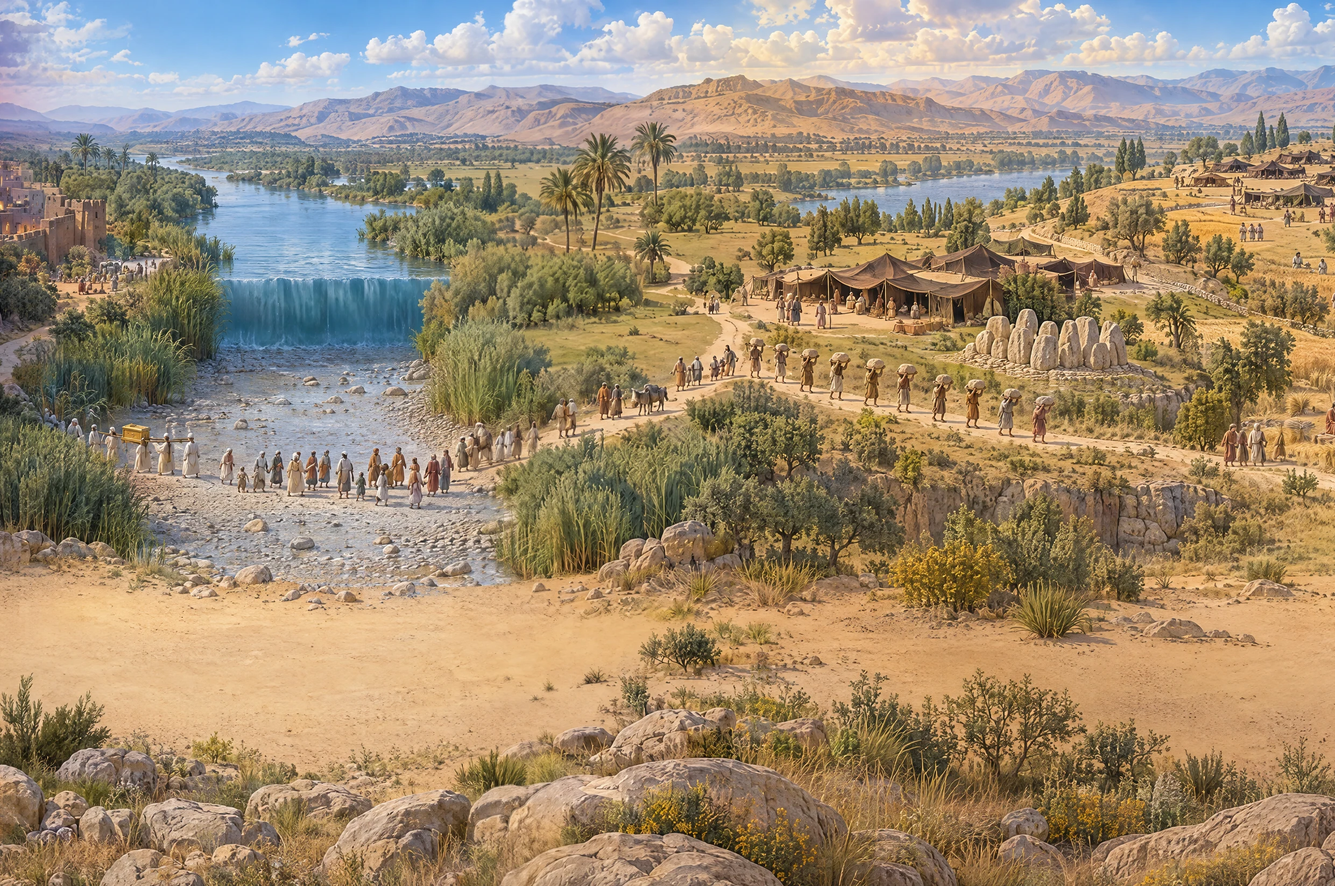
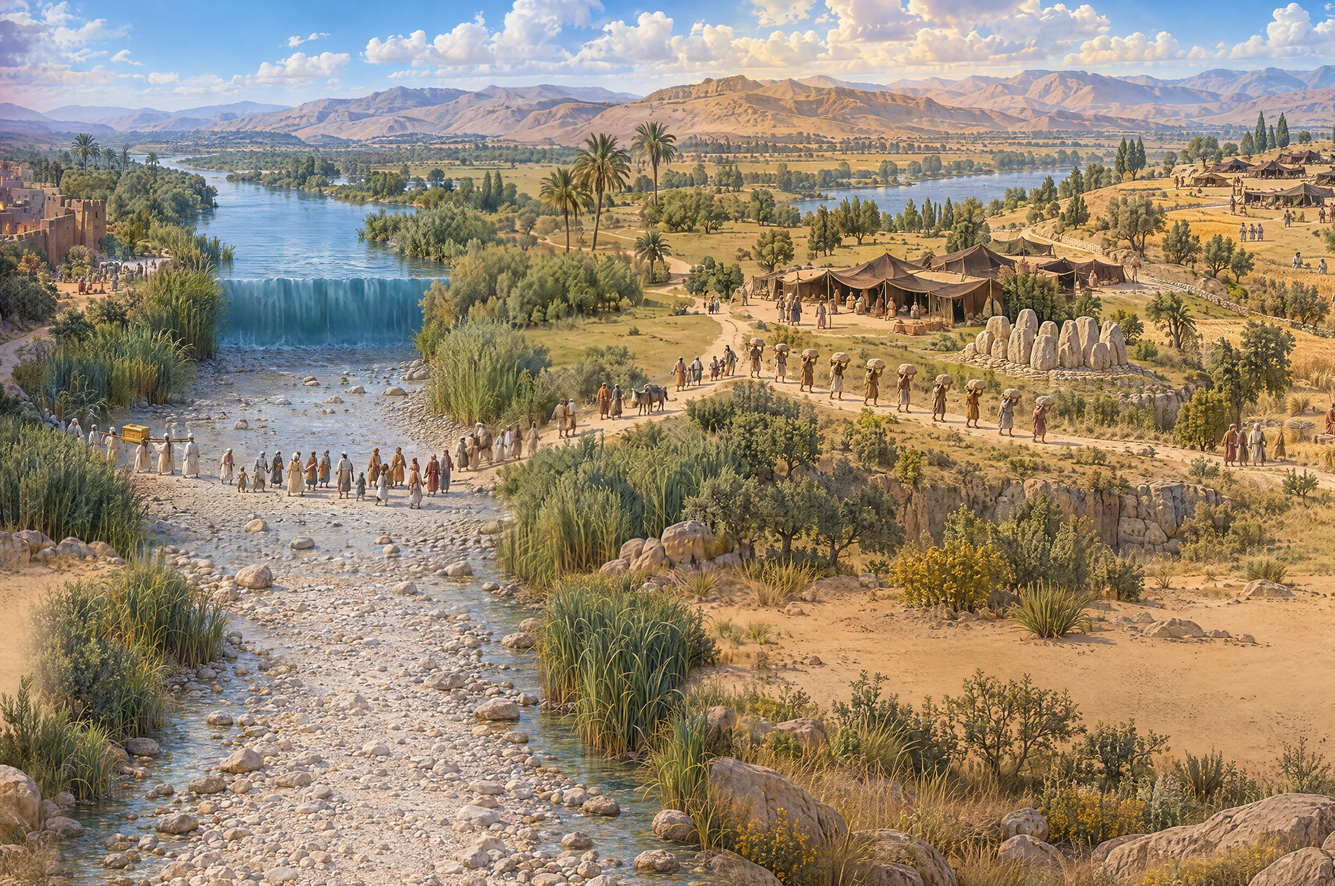
Joshua map: panorama v4 (the Jordan runs down to the lower edge), piece 2 cut anew, stretch 3 of the dotted way leads below the crossing people through the river bed

Changed region(s): [[0.0, 0.6189, 0.5586, 1.0]]

diff --git a/src/data/adventures/josuaPath.ts b/src/data/adventures/josuaPath.ts
@@ -11,7 +11,7 @@ export const JOSUA_PATH: [number, number][][] = [
   // station 2 to 3
   [[0.177, 0.4612], [0.1793, 0.4821], [0.1818, 0.5031], [0.185, 0.5204], [0.189, 0.5314], [0.1933, 0.532], [0.1976, 0.5316], [0.202, 0.5315], [0.2061, 0.5246], [0.2102, 0.5151], [0.2145, 0.5167], [0.2176, 0.534]],
   // station 3 to 4
-  [[0.2568, 0.534], [0.2607, 0.5476], [0.2645, 0.562], [0.2683, 0.5761], [0.2723, 0.5888], [0.2765, 0.5988], [0.2809, 0.6057], [0.2853, 0.6104], [0.2898, 0.6134], [0.2943, 0.6151], [0.2988, 0.6155], [0.3033, 0.6147], [0.3078, 0.6129], [0.3123, 0.6106], [0.3168, 0.6081], [0.3213, 0.6047], [0.3257, 0.5998], [0.3301, 0.5922], [0.3341, 0.5803], [0.3373, 0.5613], [0.3391, 0.5366], [0.3399, 0.51], [0.3403, 0.4829], [0.3406, 0.4559], [0.341, 0.4289], [0.3417, 0.402], [0.3422, 0.3751], [0.3426, 0.3481], [0.343, 0.321], [0.3433, 0.294], [0.3438, 0.267]],
+  [[0.2568, 0.534], [0.2606, 0.5489], [0.2644, 0.5642], [0.2681, 0.5794], [0.2719, 0.5945], [0.2758, 0.6089], [0.2798, 0.6224], [0.2838, 0.6352], [0.2878, 0.6481], [0.2919, 0.6602], [0.2961, 0.6704], [0.3005, 0.6776], [0.305, 0.6807], [0.3096, 0.6815], [0.3141, 0.6802], [0.3186, 0.6764], [0.323, 0.6695], [0.3271, 0.6579], [0.3305, 0.6397], [0.3327, 0.616], [0.3342, 0.5901], [0.3352, 0.5635], [0.336, 0.5366], [0.3368, 0.5096], [0.3376, 0.4826], [0.3385, 0.4559], [0.3394, 0.4291], [0.3403, 0.4022], [0.341, 0.3752], [0.3417, 0.3481], [0.3423, 0.321], [0.343, 0.294], [0.3438, 0.267]],
   // station 4 to 5
   [[0.3829, 0.267], [0.3861, 0.2854], [0.3895, 0.3021], [0.3906, 0.3277], [0.389, 0.3521], [0.3865, 0.3743], [0.3837, 0.3948], [0.3824, 0.4201], [0.38, 0.4421], [0.3782, 0.4649], [0.3809, 0.4854], [0.3843, 0.5026], [0.3866, 0.5255], [0.3899, 0.5427], [0.3942, 0.5461]],
   // station 5 to 6
